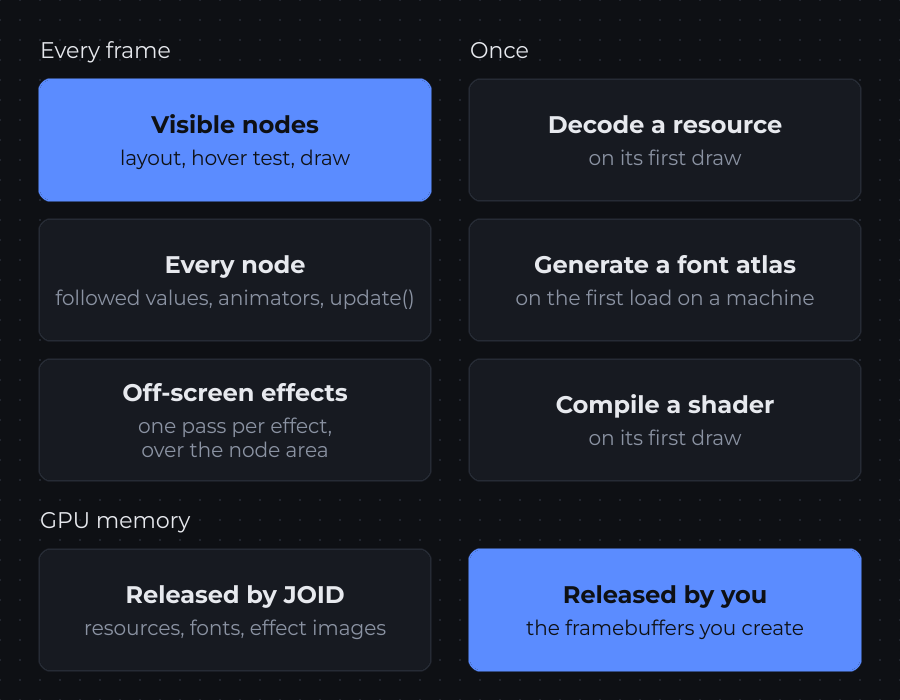
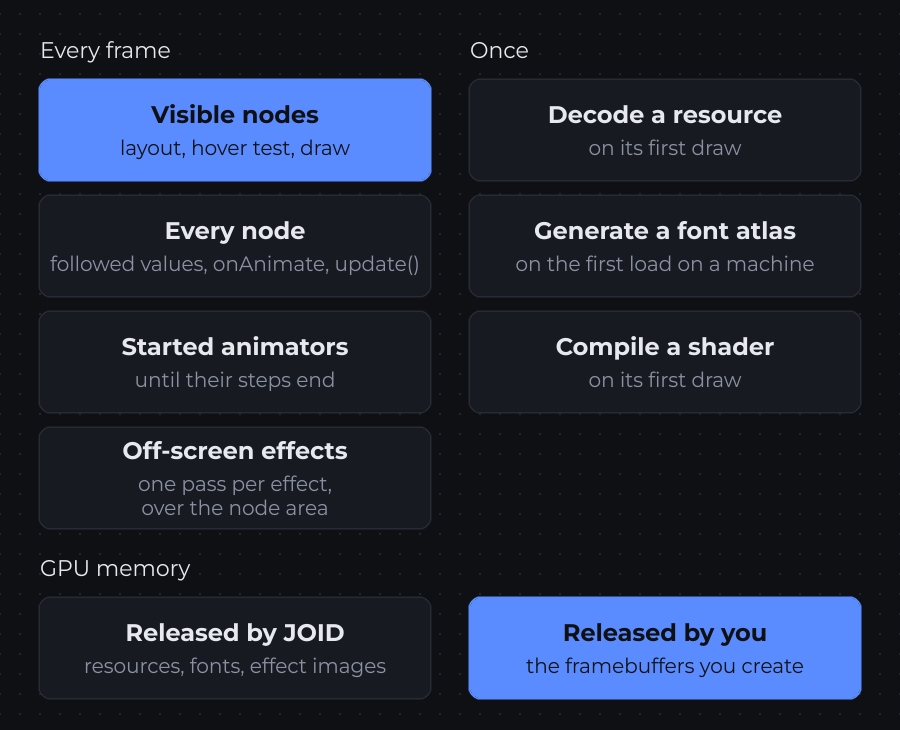
fix: performance diagram & capture stage wording (📝)

diff --git a/documentation/examples/src/main/java/com/example/depth/PerformanceUI.java b/documentation/examples/src/main/java/com/example/depth/PerformanceUI.java
@@ -6,21 +6,22 @@ public class PerformanceUI extends DepthDiagramUI {
 
 	@Override
 	public void init() {
-		super.backdrop(510, 190, 900, 700)
+		super.backdrop(510, 176, 900, 730)
 		.body(card -> {
 			super.label(40, 30, 390, 40, "Every frame", Align.START).attach(card);
-			super.subject(40, 80, 390, 120, "Visible nodes", "layout, hover test, draw").attach(card);
-			super.box(40, 220, 390, 120, "Every node", "followed values, animators, update()").attach(card);
-			super.box(40, 360, 390, 120, "Off-screen effects", "one pass per effect,\nover the node area").attach(card);
+			super.subject(40, 80, 390, 100, "Visible nodes", "layout, hover test, draw").attach(card);
+			super.box(40, 196, 390, 100, "Every node", "followed values, onAnimate, update()").attach(card);
+			super.box(40, 312, 390, 100, "Started animators", "until their steps end").attach(card);
+			super.box(40, 428, 390, 100, "Off-screen effects", "one pass per effect,\nover the node area").attach(card);
 
 			super.label(470, 30, 390, 40, "Once", Align.START).attach(card);
-			super.box(470, 80, 390, 120, "Decode a resource", "on its first draw").attach(card);
-			super.box(470, 220, 390, 120, "Generate a font atlas", "on the first load on a machine").attach(card);
-			super.box(470, 360, 390, 120, "Compile a shader", "on its first draw").attach(card);
+			super.box(470, 80, 390, 100, "Decode a resource", "on its first draw").attach(card);
+			super.box(470, 196, 390, 100, "Generate a font atlas", "on the first load on a machine").attach(card);
+			super.box(470, 312, 390, 100, "Compile a shader", "on its first draw").attach(card);
 
-			super.label(40, 500, 820, 40, "GPU memory", Align.START).attach(card);
-			super.box(40, 550, 390, 120, "Released by JOID", "resources, fonts, effect images").attach(card);
-			super.subject(470, 550, 390, 120, "Released by you", "the framebuffers you create").attach(card);
+			super.label(40, 548, 820, 40, "GPU memory", Align.START).attach(card);
+			super.box(40, 598, 390, 100, "Released by JOID", "resources, fonts, effect images").attach(card);
+			super.subject(470, 598, 390, 100, "Released by you", "the framebuffers you create").attach(card);
 		})
 		.attach(this);
 	}

diff --git a/documentation/src/content/docs/use/in-depth/performance.md b/documentation/src/content/docs/use/in-depth/performance.md
@@ -10,7 +10,7 @@ You need this page only if your interface drops frames, if its memory keeps grow
 
 <figure>
 
-![Two columns of boxes. Every frame: Visible nodes (layout, hover test, draw), highlighted; Every node (followed values, animators, update()); Off-screen effects (one pass per effect, over the node area). Once: Decode a resource (on its first draw); Generate a font atlas (on the first load on a machine); Compile a shader (on its first draw). Below, under GPU memory: Released by JOID (resources, fonts, effect images) and Released by you (the framebuffers you create), highlighted.](/captures/depth-performance.webp)
+![Two columns of boxes. Every frame: Visible nodes (layout, hover test, draw), highlighted; Every node (followed values, onAnimate, update()); Started animators (until their steps end); Off-screen effects (one pass per effect, over the node area). Once: Decode a resource (on its first draw); Generate a font atlas (on the first load on a machine); Compile a shader (on its first draw). Below, under GPU memory: Released by JOID (resources, fonts, effect images) and Released by you (the framebuffers you create), highlighted.](/captures/depth-performance.webp)
 
 <figcaption>
 The cost of a frame grows with the nodes; the rest costs once.

diff --git a/documentation/src/content/docs/use/index.md b/documentation/src/content/docs/use/index.md
@@ -24,7 +24,7 @@ The button reads the signal `notifications`, so its color, its label and the sty
 </figcaption>
 </figure>
 
-The dotted background, the pointer, its click rings and the key badges of the captures come from the capture tool: your window has none of them and clears to its window background, black by default ([Style the window UI bridge](/use/learn/running/backends/#style-the-window-ui-bridge)).
+The dotted stage under each UI, the pointer, its click rings and the key badges of the captures come from the capture tool: your window has none of them and clears to its window background, black by default ([Style the window UI bridge](/use/learn/running/backends/#style-the-window-ui-bridge)).
 
 `ExampleFont` loads the font of the examples ([Quick Start](/use/get-started/quick-start/#run-any-example-of-this-documentation)).
 
